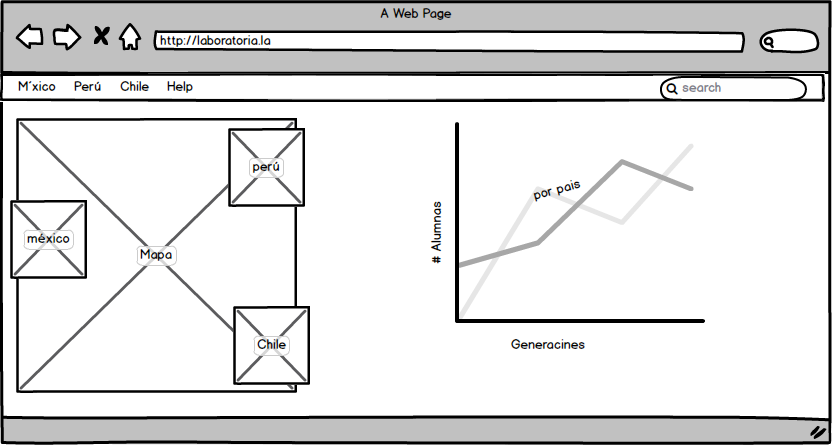
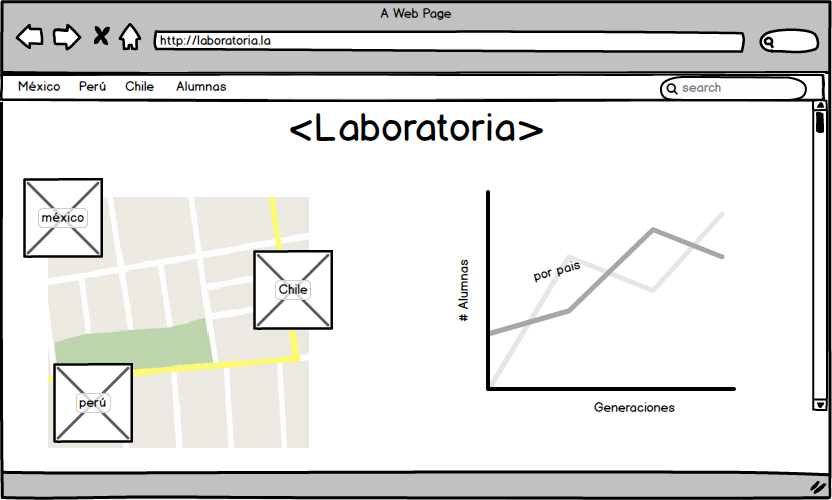
actualizando dashboard

diff --git a/README.md b/README.md
@@ -20,3 +20,5 @@ Análisis de los elementos del UX
 ## Dashboard
 
 ![Página principal](dashboard/Mockup.png)
+![Página principal](dashboard/Chile.png)
+![Página principal](dashboard/Alumnas.png)
